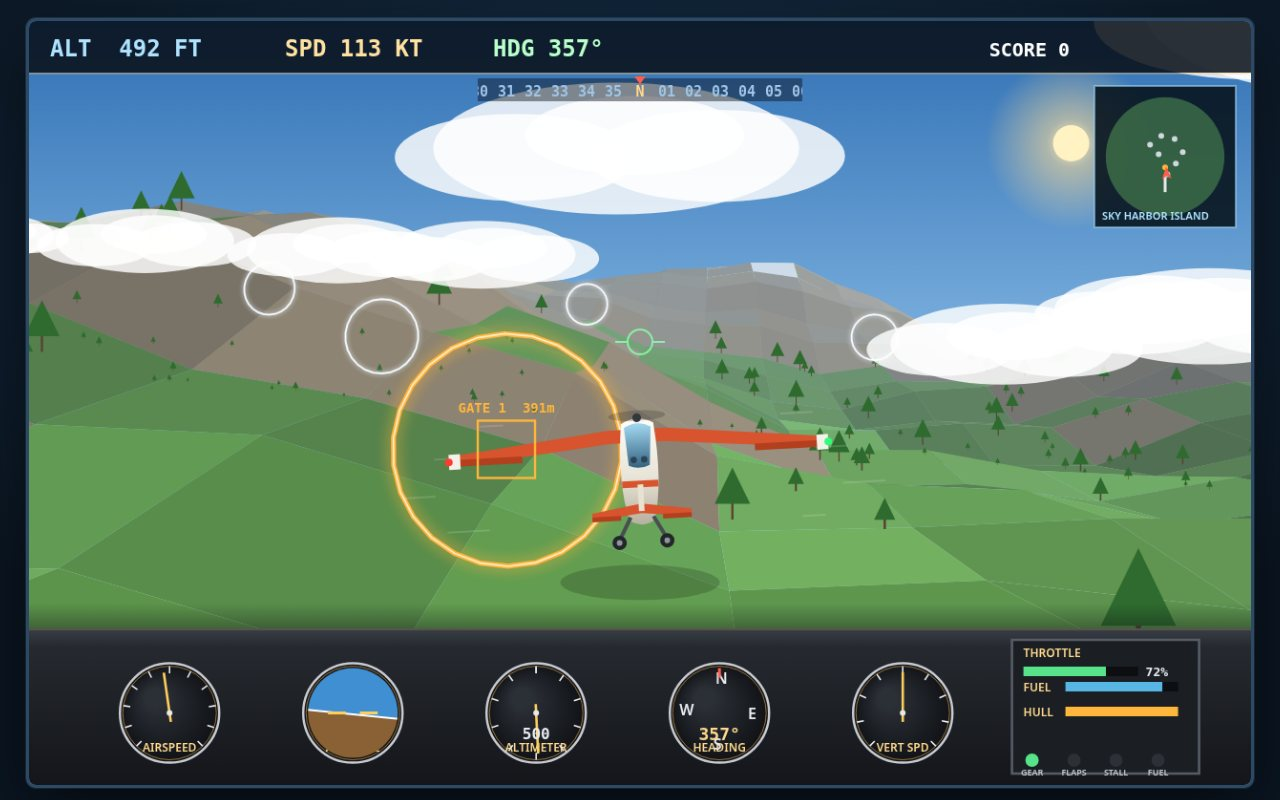
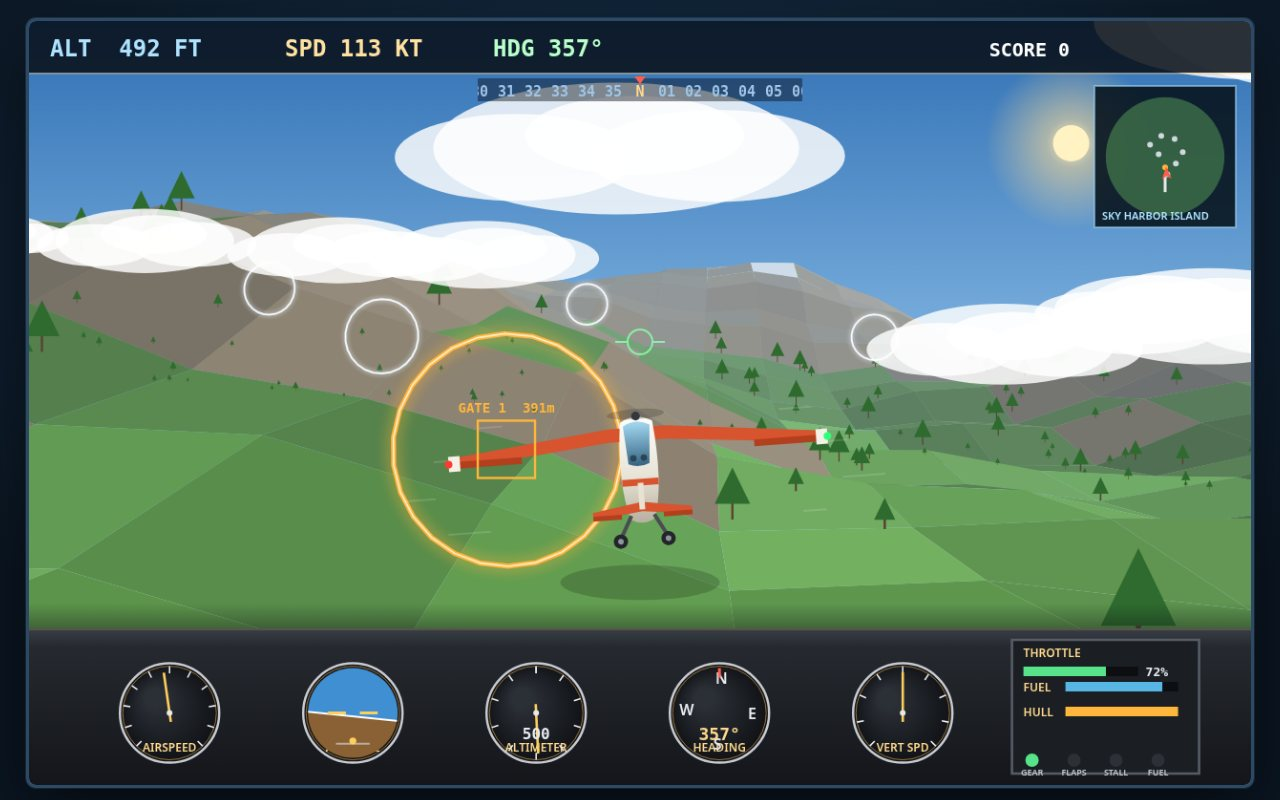
v3: simulator-weight flight model (AoA, load factor, ground effect, stall break)

diff --git a/game/src/physics.js b/game/src/physics.js
@@ -1,13 +1,23 @@
-// physics.js — the flight model: throttle, lift, stall, coordinated turns,
-// fuel burn and damage. Tuned so disciplined flying is fast and greedy flying bites.
+// physics.js — a flight model with weight: control inertia, angle of attack,
+// load factor, an energy balance that settles into the phugoid, ground effect,
+// ridge lift, and a stall that breaks like the real thing.
+//
+// The aeroplane carries two pitch angles:
+//   att   — where the nose points, driven by the stick through a spring
+//   pitch — where the aeroplane actually goes (the flight-path angle)
+// Their difference is the angle of attack, and lift follows from it. Pull the
+// nose up and the path bends only as fast as lift can bend it; hold the nose
+// up while slow and lift collapses — the nose drops on its own.
 
 export function createPlane() {
   return {
     x: 0, y: 90, z: 3050, // starts on final-approach line south of the runway
     heading: 0, // radians, 0 = north (-z), clockwise positive
     pitch: 0, roll: 0,
+    att: 0, attVel: 0, // nose attitude and its rate
+    slip: 0, aoa: 0, loadFactor: 1, verticalAir: 0, t: 0,
     speed: 52, // m/s
-    throttle: 0.55,
+    throttle: 0.62,
     vy: 0,
     fuel: 100,
     damage: 0,
@@ -22,45 +32,93 @@ export function createPlane() {
 }
 
 const clamp = (v, lo, hi) => Math.max(lo, Math.min(hi, v));
+const G = 9.81;
+const TRIM_SPEED = 52;
 
 export function stepPlane(p, input, dt, groundAt) {
   if (p.crashed || p.landed) return p;
   const t = dt;
+  p.t += t;
+  const ground = groundAt(p.x, p.z);
+  const agl = p.y - ground;
 
-  // Controls: throttle and surfaces answer at every speed, weaker when slow.
   if (input.throttleUp) p.throttle = clamp(p.throttle + 0.55 * t, 0, 1);
   if (input.throttleDown) p.throttle = clamp(p.throttle - 0.55 * t, 0, 1);
-  const authority = clamp(p.speed / 46, 0.25, 1);
-  const pitchRate = input.pitch * 0.85 * authority;
-  const rollRate = input.roll * 1.9 * authority;
-  p.roll = clamp(p.roll + rollRate * t - p.roll * 1.4 * t * (input.roll === 0 ? 1 : 0.25), -1.15, 1.15);
-  p.pitch = clamp(p.pitch + pitchRate * t - Math.sin(p.roll) * 0.12 * t, -0.5, 0.62);
 
-  // A banked wing turns the nose; steep banks bleed speed and sink.
-  p.heading -= Math.sin(p.roll) * (p.speed / 210) * t * 2.4;
-  const enginePower = p.throttle * 15.5 * (p.fuel > 0 ? 1 : 0);
-  const drag = 0.0038 * p.speed * p.speed + Math.abs(p.roll) * 2.6 + (p.gearDown ? 1.1 : 0) + p.flaps * 2.2;
-  const climbPush = Math.sin(p.pitch) * 9.2;
-  p.speed = clamp(p.speed + (enginePower - drag * 0.32 - climbPush) * t * 2.1, 0, 118);
+  // --- control response with inertia: the airframe takes time to answer ---
+  const rollTarget = input.roll * 1.02;
+  const rollBefore = p.roll;
+  p.roll += (rollTarget - p.roll) * (1 - Math.exp(-3.4 * t));
+  const rollRate = (p.roll - rollBefore) / Math.max(t, 0.001);
 
-  // Lift versus weight: below the stall speed the nose drops and the sink grows.
-  const stallSpeed = p.flaps ? 24 : 31;
-  p.stall = p.airborne && p.speed < stallSpeed;
-  const lift = clamp(p.speed / stallSpeed, 0, 1.35);
-  let climb = Math.sin(p.pitch) * p.speed * 0.72 * lift - (1 - Math.min(1, lift)) * 13;
-  climb -= Math.abs(Math.sin(p.roll)) * p.speed * 0.16;
-  if (p.stall) p.pitch = clamp(p.pitch - 0.35 * t, -0.5, 0.62);
-  p.vy = climb;
+  p.attVel += ((input.pitch * 0.8) - p.attVel) * Math.min(1, 5.2 * t);
+  p.att += p.attVel * t;
+  // longitudinal stability: left alone the nose settles back toward the path
+  p.attVel += (p.pitch - p.att) * 0.55 * t;
+  p.att = clamp(p.att, -0.55, 0.6);
 
+  // --- angle of attack, lift, load factor ---
+  const aoa = p.att - p.pitch;
+  p.aoa = aoa;
+  let liftN = (p.speed * p.speed) / (TRIM_SPEED * TRIM_SPEED)
+    * clamp(1 + aoa * 4.2 + (p.flaps ? 0.48 : 0), 0.3, 2.6);
+  if (agl < 15 && p.airborne) liftN += (1 - agl / 15) * 0.14; // ground-effect cushion
+  p.loadFactor = liftN / Math.max(0.35, Math.cos(p.roll));
+
+  const critAoa = p.flaps ? 0.36 : 0.30;
+  p.stall = p.airborne && aoa > critAoa && p.speed < 66;
+  if (aoa > critAoa) {
+    liftN *= Math.max(0.45, 1 - (aoa - critAoa) * 3.4);
+    // the nose drops through the break, harder than the stick can hold it up
+    p.attVel -= (aoa - critAoa) * 7.0 * t;
+    p.att -= (aoa - critAoa) * 1.6 * t;
+  }
+
+  // the flight path bends toward where lift points — slowly when slow,
+  // which is exactly why a heavy aeroplane feels heavy
+  const gammaRate = (G / Math.max(p.speed, 20)) * (liftN * Math.cos(p.roll) - Math.cos(p.pitch));
+  p.pitch += clamp(gammaRate, -1.4, 1.4) * t;
+  p.pitch = clamp(p.pitch, -1.05, 0.8);
+
+  // --- the turn: g·tan(bank)/v, plus adverse yaw and a touch of P-factor ---
+  const yawRate = (G * Math.tan(p.roll) / Math.max(p.speed, 24)) * 1.45;
+  p.heading -= yawRate * t;
+  p.heading += rollRate * 0.055 * t;
+  p.heading -= (p.throttle - 0.35) * 0.012 * t * (56 / Math.max(p.speed, 28));
+  const slipTarget = clamp((rollTarget - p.roll) * 1.1, -1, 1);
+  p.slip += (slipTarget - p.slip) * (1 - Math.exp(-2.6 * t));
+
+  // --- energy: thrust against drag, gravity taxing every climb ---
+  const thrust = p.throttle * 33 * (p.fuel > 0 ? 1 : 0);
+  const parasite = 2.1 + 0.0068 * p.speed * p.speed;
+  const induced = 3.1 * liftN * liftN * (42 / Math.max(p.speed, 24));
+  const gearDrag = p.gearDown ? 1.5 : 0;
+  const accel = thrust - parasite - induced - gearDrag - G * Math.sin(p.pitch) * 0.92;
+  p.speed = clamp(p.speed + accel * t, 0, 118);
+
+  // --- the air itself moves: ridge lift on windward slopes, gentle gusts ---
+  let verticalAir = 0;
+  if (agl < 240 && p.airborne) {
+    const slopeWind = (groundAt(p.x + 46, p.z) - groundAt(p.x - 46, p.z)) / 92;
+    verticalAir += clamp(slopeWind * p.speed * 0.11, -3.4, 3.4);
+  }
+  verticalAir += Math.sin(p.t * 0.9 + p.x * 0.008) * Math.cos(p.t * 0.63 + p.z * 0.011)
+    * (agl < 320 ? 0.85 : 0.25);
+  p.verticalAir = verticalAir;
+
+  // --- integrate the path ---
   const fx = Math.sin(p.heading) * Math.cos(p.pitch);
   const fz = -Math.cos(p.heading) * Math.cos(p.pitch);
   p.x += fx * p.speed * t;
   p.z += fz * p.speed * t;
-  p.y += p.vy * t;
+  let vy = Math.sin(p.pitch) * p.speed + verticalAir;
+  if (vy < 0 && agl < 15 && p.airborne) vy *= 0.45 + (agl / 15) * 0.55; // the flare floats
+  p.vy = vy;
+  p.y += vy * t;
 
   p.fuel = Math.max(0, p.fuel - (0.16 + p.throttle * 0.85) * t);
 
-  const ground = groundAt(p.x, p.z);
+  // --- ground contact (same strip rules as always) ---
   const floor = ground + 3.2;
   if (p.y <= floor) {
     p.y = floor;
@@ -71,6 +129,7 @@ export function stepPlane(p, input, dt, groundAt) {
       p.airborne = false;
       p.vy = 0;
       p.pitch = Math.max(0, p.pitch - t);
+      p.att = Math.max(0, p.att - t);
       p.speed = clamp(p.speed - 9 * t, 0, 118);
       if (p.speed < 2) { p.landed = true; p.speed = 0; }
     } else if (hard > 13 || Math.abs(p.roll) > 0.55 || !p.gearDown) {

diff --git a/game/src/main.js b/game/src/main.js
@@ -42,11 +42,30 @@ function startMission(id) {
   state = createMissionState(id);
   screen = 'flying';
   paused = false;
+  camSm.ready = false;
   audio.start();
 }
 
-function render(t) {
-  const cam = makeCamera(plane, true);
+// chase-camera orientation with a little spring in it: the camera settles
+// onto a new heading a beat after the aeroplane does, so turns feel weighted
+const camSm = { heading: 0, pitch: 0, roll: 0, ready: false };
+function smoothedPlane(dt) {
+  if (!camSm.ready) {
+    camSm.heading = plane.heading; camSm.pitch = plane.pitch; camSm.roll = plane.roll;
+    camSm.ready = true;
+  }
+  const k = 1 - Math.exp(-5.5 * dt);
+  let dh = plane.heading - camSm.heading;
+  while (dh > Math.PI) dh -= Math.PI * 2;
+  while (dh < -Math.PI) dh += Math.PI * 2;
+  camSm.heading += dh * k;
+  camSm.pitch += (plane.pitch - camSm.pitch) * k;
+  camSm.roll += (plane.roll - camSm.roll) * (1 - Math.exp(-7 * dt));
+  return { ...plane, heading: camSm.heading, pitch: camSm.pitch, roll: camSm.roll };
+}
+
+function render(t, dt = 0.016) {
+  const cam = makeCamera(smoothedPlane(dt), true);
   if (plane.stall) {
     // buffet: the whole airframe shudders as the wing lets go
     cam.x += Math.sin(t * 43) * 0.55;
@@ -82,7 +101,7 @@ function frame(now) {
     plane.y = 560 + Math.sin(elapsed * 0.3) * 30;
     plane.roll = -0.32;
     plane.speed = 55;
-    render(elapsed);
+    render(elapsed, dt);
     drawBanner(ctx, W, H, 'SKY HARBOR RUN', [
       'An original island flight game — gates, landings and one careful fuel gauge.',
       '',
@@ -107,10 +126,10 @@ function frame(now) {
       audio.update(plane);
       if (state.finished) screen = 'debrief';
     }
-    render(elapsed);
+    render(elapsed, dt);
     if (paused) drawBanner(ctx, W, H, 'PAUSED', ['Press P to resume · R to restart the sortie']);
   } else if (screen === 'debrief') {
-    render(elapsed);
+    render(elapsed, dt);
     drawBanner(ctx, W, H, plane.crashed ? 'FLIGHT ENDED' : 'DEBRIEF', [
       state.verdict,
       `Score ${Math.round(state.score)} · Time ${Math.round(state.elapsed)}s · Fuel left ${Math.round(plane.fuel)}% · Hull ${Math.max(0, Math.round(100 - plane.damage))}%`,

diff --git a/game/src/shots.js b/game/src/shots.js
@@ -19,21 +19,21 @@ export function poseForShot(name) {
   let timeOfDay = 'day';
 
   if (name === 'cover') {
-    Object.assign(plane, { x: 90, y: 150, z: 1080, heading: 0.06, pitch: 0.03, roll: -0.10, speed: 58, throttle: 0.72, fuel: 86 });
+    Object.assign(plane, { x: 90, y: 150, z: 1080, heading: 0.06, pitch: 0.03, att: 0.075, roll: -0.10, speed: 58, throttle: 0.72, fuel: 86 });
     state.nextRing = 0;
     state.score = 0;
   } else if (name === 'approach') {
-    Object.assign(plane, { x: 20, y: 52, z: 2680, heading: -0.01, pitch: -0.045, roll: 0.03, speed: 41, throttle: 0.34, fuel: 64, gearDown: true, flaps: 1 });
+    Object.assign(plane, { x: 20, y: 52, z: 2680, heading: -0.01, pitch: -0.045, att: 0.03, roll: 0.03, speed: 41, throttle: 0.34, fuel: 64, gearDown: true, flaps: 1 });
     state.nextRing = 8;
     state.ringsDone = 8;
     state.score = 1180;
   } else if (name === 'rings') {
-    Object.assign(plane, { x: -110, y: 468, z: -720, heading: 0.22, pitch: 0.04, roll: -0.38, speed: 66, throttle: 0.8, fuel: 71 });
+    Object.assign(plane, { x: -110, y: 468, z: -720, heading: 0.22, pitch: 0.04, att: 0.10, roll: -0.38, speed: 66, throttle: 0.8, fuel: 71 });
     state.nextRing = 3;
     state.ringsDone = 3;
     state.score = 465;
   } else if (name === 'sunset') {
-    Object.assign(plane, { x: 1250, y: 330, z: 1500, heading: 2.35, pitch: 0.02, roll: 0.28, speed: 61, throttle: 0.66, fuel: 58 });
+    Object.assign(plane, { x: 1250, y: 330, z: 1500, heading: 2.35, pitch: 0.02, att: 0.055, roll: 0.28, speed: 61, throttle: 0.66, fuel: 58 });
     state.missionId = 'free';
     state.score = 210;
     timeOfDay = 'sunset';

diff --git a/game/src/aircraft.js b/game/src/aircraft.js
@@ -6,12 +6,18 @@ export function drawAircraft(ctx, w, h, plane, input, t, groundBelow) {
   const cx = w / 2;
   const cy = h * 0.60;
   const bank = plane.roll;
-  const pitchLift = -plane.pitch * 26;
+  // the drawn nose follows ATTITUDE, not the flight path: pull back and the
+  // nose rises first, the climb follows — the gap between them is the AoA
+  const att = plane.att !== undefined ? plane.att : plane.pitch;
+  const aoa = att - plane.pitch;
+  const pitchLift = -att * 34;
+  const buffet = plane.stall ? Math.sin(t * 47) * 2.2 : 0;
+  const airBump = (plane.verticalAir || 0) * Math.sin(t * 9.3) * 0.9;
   const scale = 1;
 
   ctx.save();
-  ctx.translate(cx, cy + pitchLift);
-  ctx.rotate(bank * 0.55);
+  ctx.translate(cx + buffet, cy + pitchLift + buffet * 0.6 + airBump);
+  ctx.rotate(bank * 0.55 - aoa * 0.45);
   ctx.scale(scale, scale);
 
   // slipstream streaks that stretch with speed, so the air itself shows motion
@@ -102,11 +108,12 @@ export function drawAircraft(ctx, w, h, plane, input, t, groundBelow) {
   ctx.fillRect(-52, 38 + elev, 30, 5);
   ctx.fillRect(22, 38 - elev, 30, 5);
   ctx.fillStyle = '#e8e2d2';
+  const rudder = (plane.slip || 0) * 6 + input.roll * 2;
   ctx.beginPath();
   ctx.moveTo(-3, 6);
   ctx.lineTo(3, 6);
-  ctx.lineTo(3 + input.roll * 5, 34);
-  ctx.lineTo(-3 + input.roll * 5, 34);
+  ctx.lineTo(3 + rudder, 34);
+  ctx.lineTo(-3 + rudder, 34);
   ctx.closePath();
   ctx.fill();
 

diff --git a/game/src/cockpit.js b/game/src/cockpit.js
@@ -86,7 +86,7 @@ export function drawCockpit(ctx, w, h, plane, t) {
   ctx.clip();
   ctx.translate(xs[1], cy);
   ctx.rotate(-plane.roll);
-  ctx.translate(0, plane.pitch * r * 0.9);
+  ctx.translate(0, (plane.att !== undefined ? plane.att : plane.pitch) * r * 0.9);
   ctx.fillStyle = '#3f8fd2';
   ctx.fillRect(-r, -r * 1.6, r * 2, r * 1.6);
   ctx.fillStyle = '#8a6134';
@@ -102,6 +102,19 @@ export function drawCockpit(ctx, w, h, plane, t) {
   ctx.moveTo(xs[1] + r * 0.14, cy);
   ctx.lineTo(xs[1] + r * 0.5, cy);
   ctx.stroke();
+  // turn coordinator ball: it slides out while the turn is uncoordinated —
+  // step on the ball (rudder toward it) to centre it, like the real thing
+  const ballY = cy + r * 0.62;
+  ctx.strokeStyle = 'rgba(230,236,240,0.55)';
+  ctx.lineWidth = 2;
+  ctx.beginPath();
+  ctx.moveTo(xs[1] - r * 0.34, ballY);
+  ctx.lineTo(xs[1] + r * 0.34, ballY);
+  ctx.stroke();
+  ctx.fillStyle = '#ffcf5e';
+  ctx.beginPath();
+  ctx.arc(xs[1] + (plane.slip || 0) * r * 0.3, ballY - 3, 3.6, 0, Math.PI * 2);
+  ctx.fill();
 
   // 3 altimeter (ft), one revolution = 1000 ft
   gaugeFrame(ctx, xs[2], cy, r, 'ALTIMETER');
